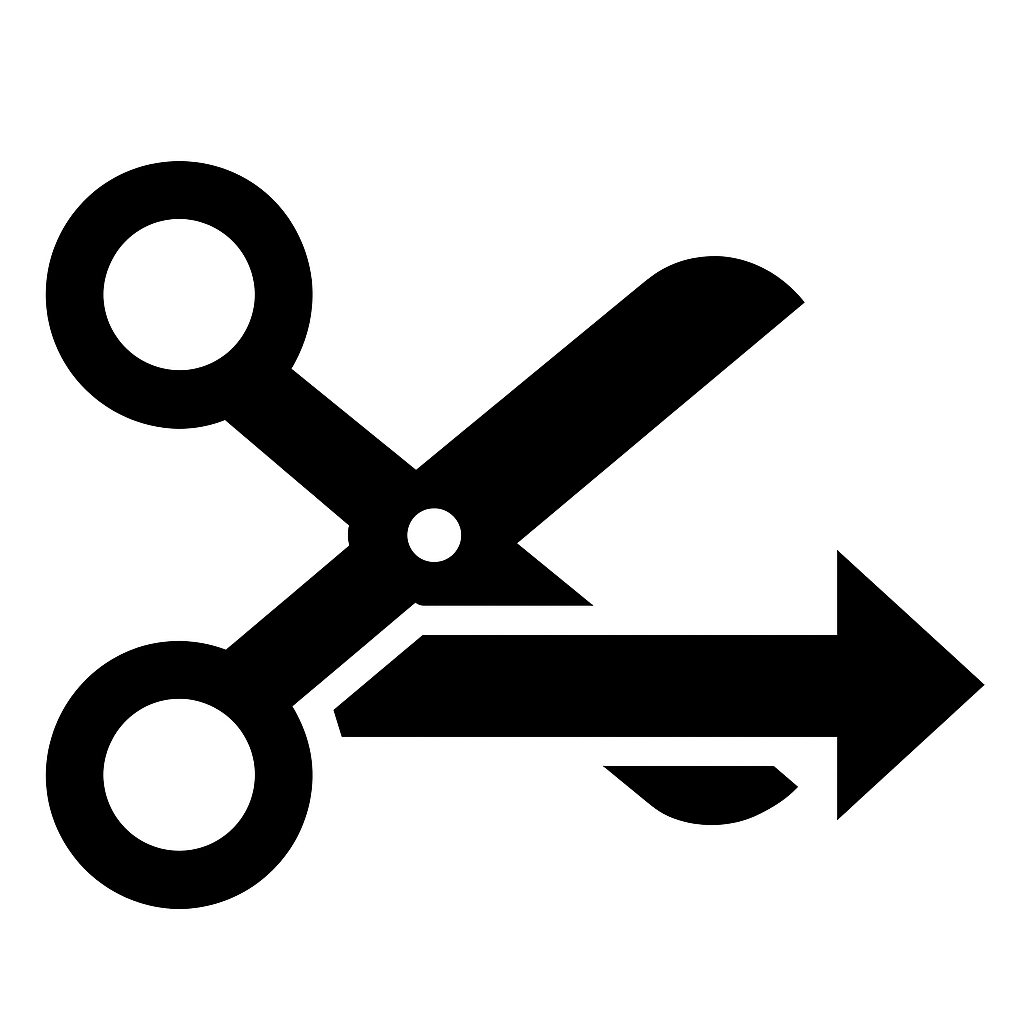
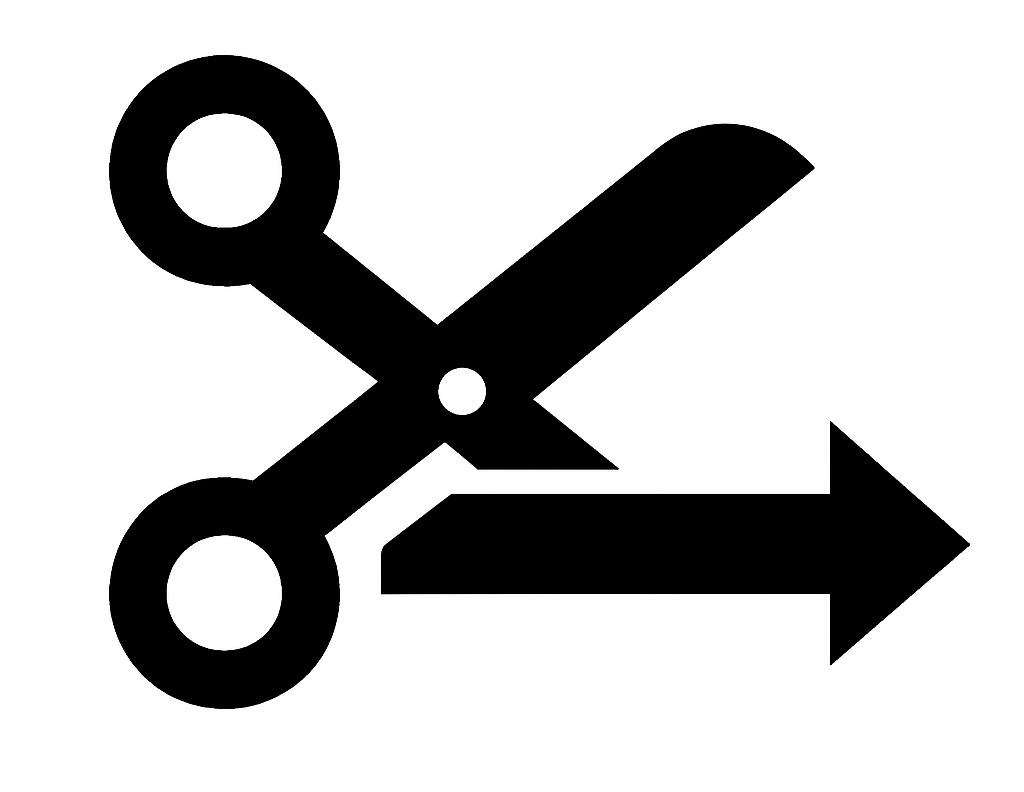
added video_gpx_sync button, edit cut buttons

diff --git a/views/mainwindow.py b/views/mainwindow.py
@@ -767,6 +767,7 @@ class MainWindow(QMainWindow):
         self.cut_manager.cutsChanged.connect(self._on_cuts_changed)
         self.step_manager.set_cut_manager(self.cut_manager)
         self.video_control.syncClicked.connect(self.on_sync_clicked)
+        self.video_control.setSyncClicked.connect(self.on_set_video_gpx_sync_clicked)
         
         self.gpx_control.markBClicked.connect(self.on_markB_clicked_gpx)
         self.gpx_control.deselectClicked.connect(self.on_deselect_clicked)
@@ -2699,7 +2700,8 @@ class MainWindow(QMainWindow):
         if self.playlist:
             self.video_editor.show_first_frame_at_index(0)
 
-        QMessageBox.information(self, "Loaded", f"{len(files)} video(s) added to the playlist.")
+        if self.playlist_counter > 1:
+            QMessageBox.information(self, "Loaded", f"{len(files)} video(s) added to the playlist.")
     
    
     def _set_gpx_data(self, gpx_data):
@@ -3606,6 +3608,34 @@ class MainWindow(QMainWindow):
                 remaining -= seg_len
 
         return total_dur    
+
+    def on_set_video_gpx_sync_clicked(self):
+        """
+        Define synchronization match between selected GPX and video time
+        """
+        global_s = self.video_editor.get_current_position_s()
+        print(f"[DEBUG] on_set_video_gpx_sync_clicked => get_current_position_s()={global_s:.3f}")
+        
+        # 2) => final_s, falls Cuts 
+        final_s = self.get_final_time_for_global(global_s)
+
+        row = self.gpx_widget.gpx_list.table.currentRow()
+        gpx_time = self._gpx_data[row]["time"] - self._gpx_data[0]["time"]
+        new_shift=  final_s - gpx_time.total_seconds()
+
+        reply = QMessageBox.question(
+                self,
+                "Video-GPX sync point",
+                f"Define GPX at {gpx_time} synced with {final_s:.1f} seconds in video?\n"
+                f"GPX-video shift will be {new_shift:.1f} seconds (undo possible).",
+                QMessageBox.Yes | QMessageBox.No,
+                QMessageBox.No
+            )
+        if reply == QMessageBox.Yes:
+            self.register_gpx_undo_snapshot()
+            set_gpx_video_shift(new_shift)
+            #recalc_gpx_data(self._gpx_data) #to refresh list
+            self.gpx_widget.gpx_list.set_gpx_data(self._gpx_data)
         
     def on_sync_clicked(self):
         """
@@ -4145,6 +4175,7 @@ class MainWindow(QMainWindow):
         self.chart.set_gpx_data([])
         if self.mini_chart_widget:
             self.mini_chart_widget.set_gpx_data([])
+        set_gpx_video_shift(0)
         
         self.map_widget.loadRoute({"type": "FeatureCollection", "features": []}, do_fit=True)
     
@@ -4173,7 +4204,6 @@ class MainWindow(QMainWindow):
         self.video_durations.clear()
         self.playlist_menu.clear()
 
-        QMessageBox.information(self, "New Project", "New project started successfully.")
      
 
     

diff --git a/widgets/video_control_widget.py b/widgets/video_control_widget.py
@@ -50,6 +50,7 @@ class VideoControlWidget(QWidget):
     syncClicked              = Signal()
     set_beginClicked         = Signal()  
     overlayClicked        = Signal()
+    setSyncClicked           = Signal()
 
     def __init__(self, parent=None):
         super().__init__(parent)
@@ -185,8 +186,14 @@ class VideoControlWidget(QWidget):
         self.go_to_end_button.clicked.connect(self.goToEndClicked.emit)
         layout.addWidget(self.go_to_end_button)
 
+        self.set_sync_button = QPushButton()
+        self.set_sync_button.setIcon(QIcon("icon/video_gpx_sync.png")) 
+        self.set_sync_button.setToolTip("Set current video frame synchronized with selected GPX Point")
+        self.set_sync_button.clicked.connect(self.setSyncClicked.emit)
+        layout.addWidget(self.set_sync_button)
+
         self.sync_button = QPushButton("GSync")
-        self.sync_button.setToolTip("Show the corresponding GPX-Point")
+        self.sync_button.setToolTip("Select the corresponding GPX-Point")
         self.sync_button.setFixedWidth(45)
         self.sync_button.clicked.connect(self.syncClicked.emit)
         layout.addWidget(self.sync_button)
